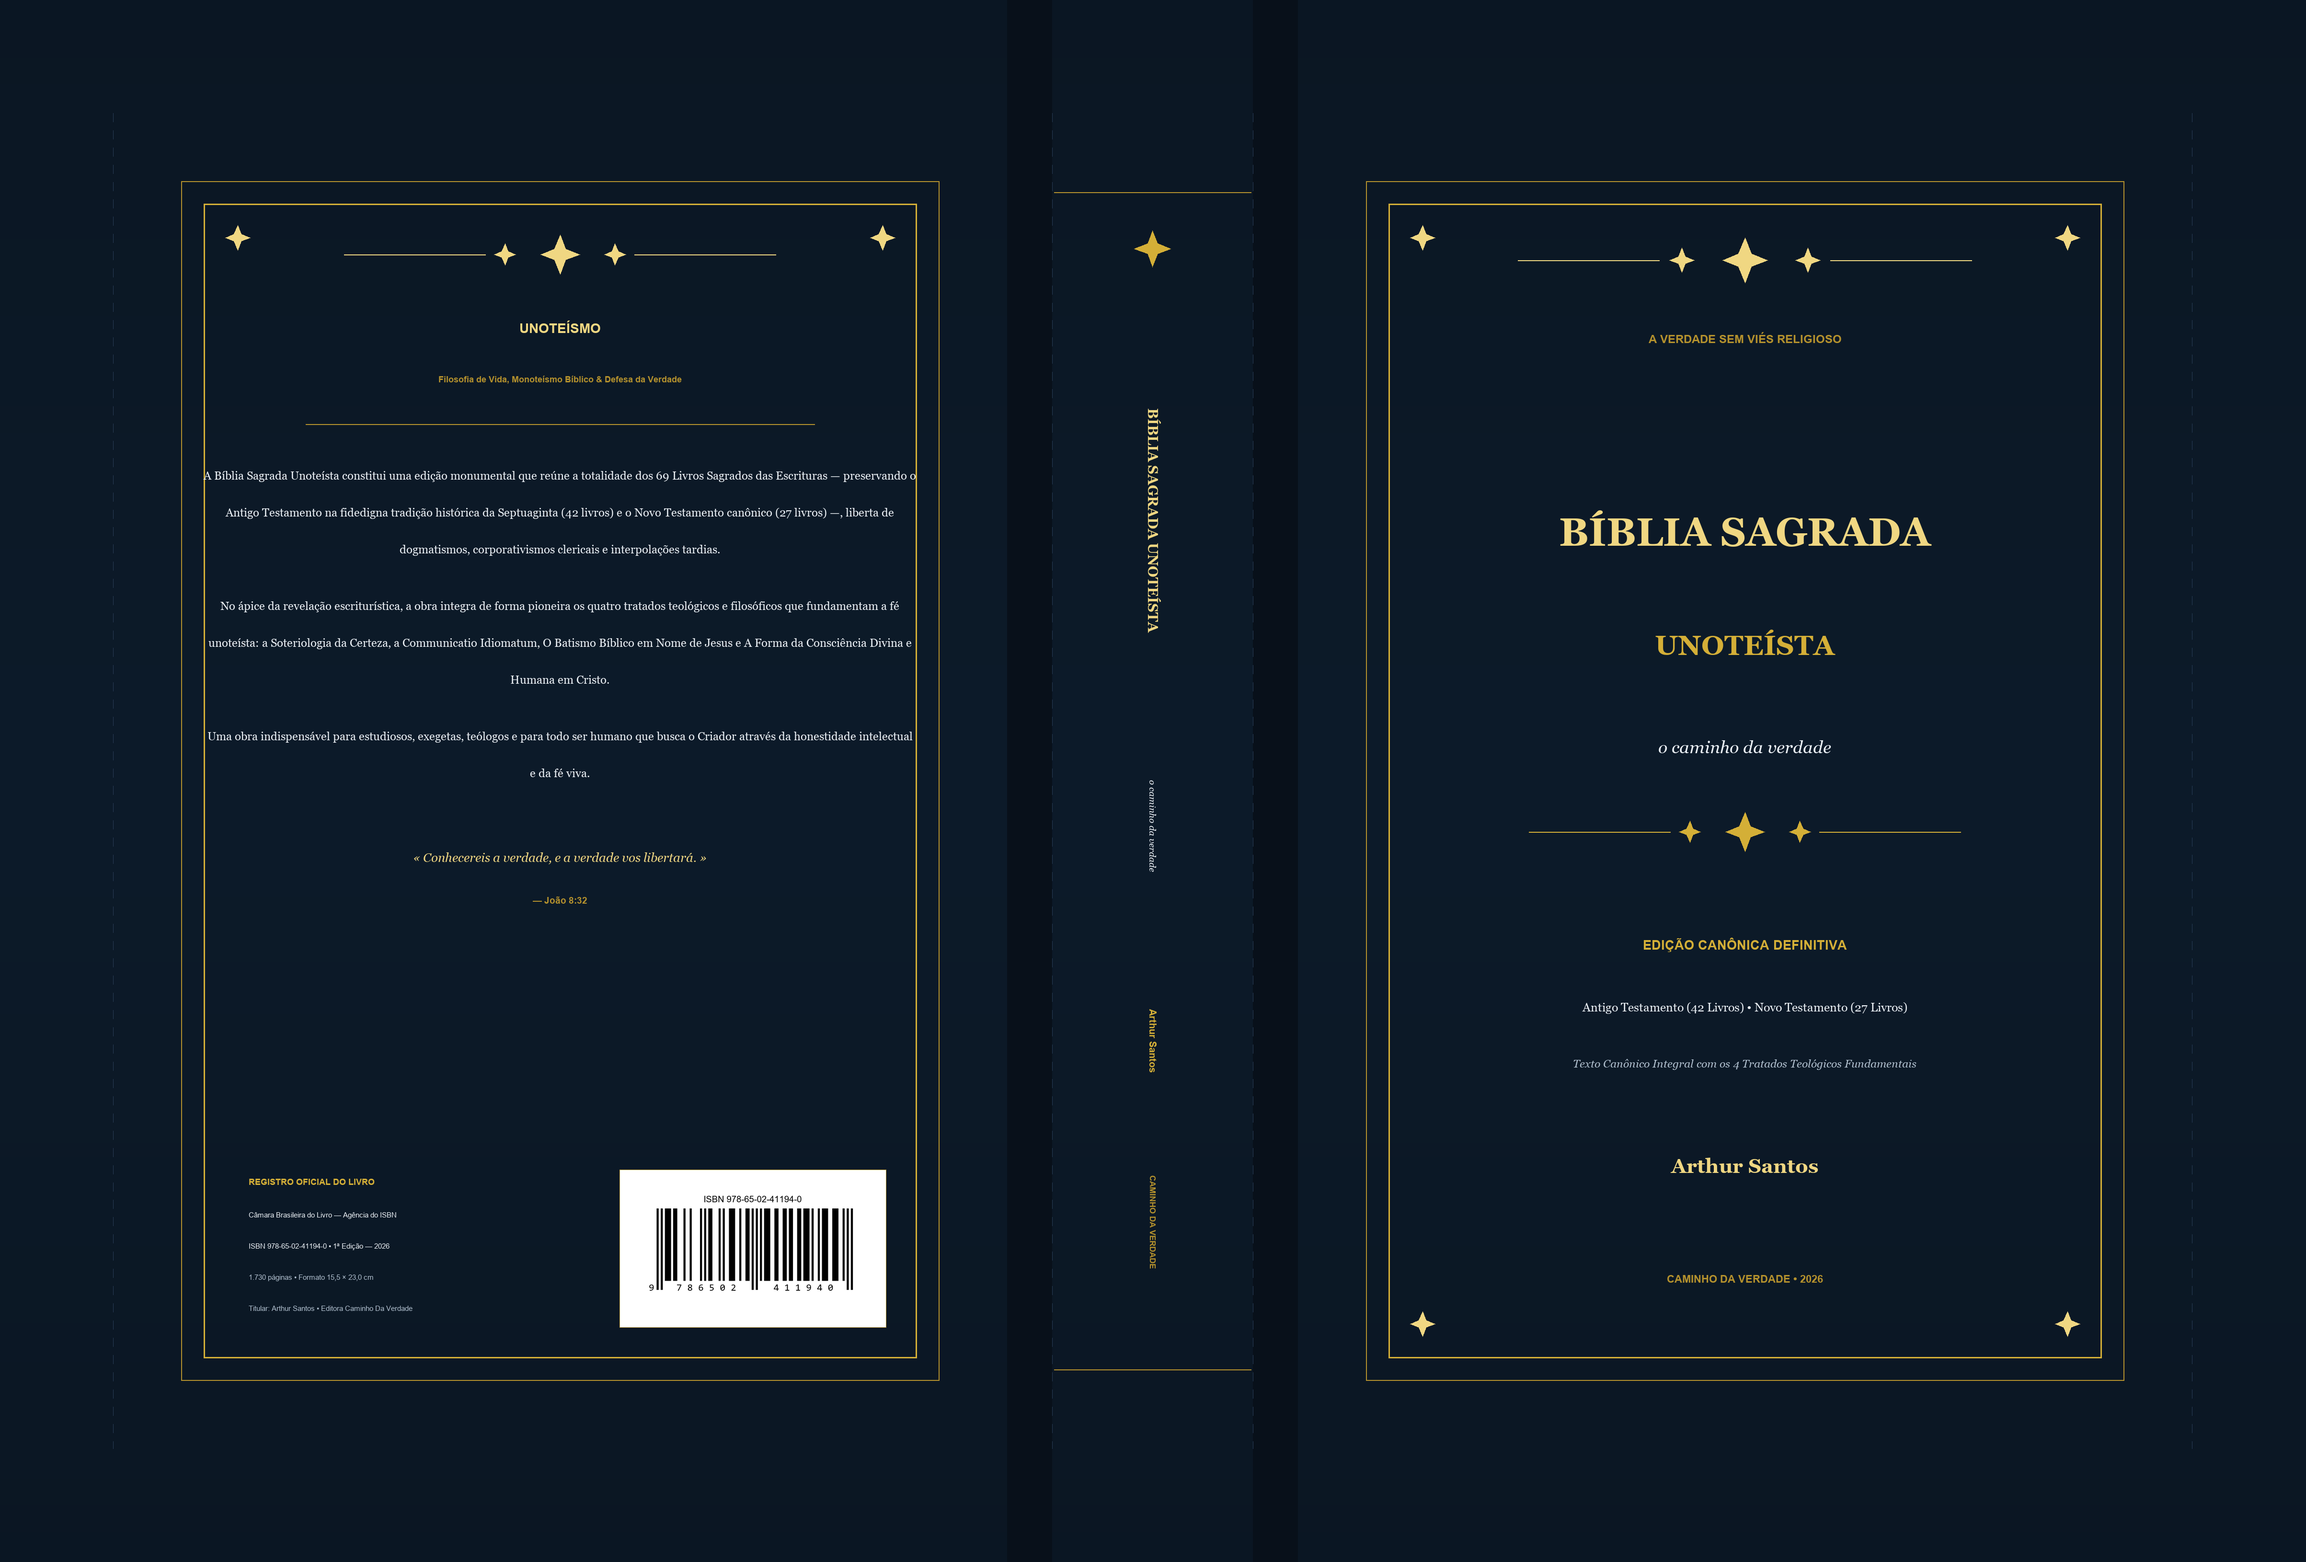
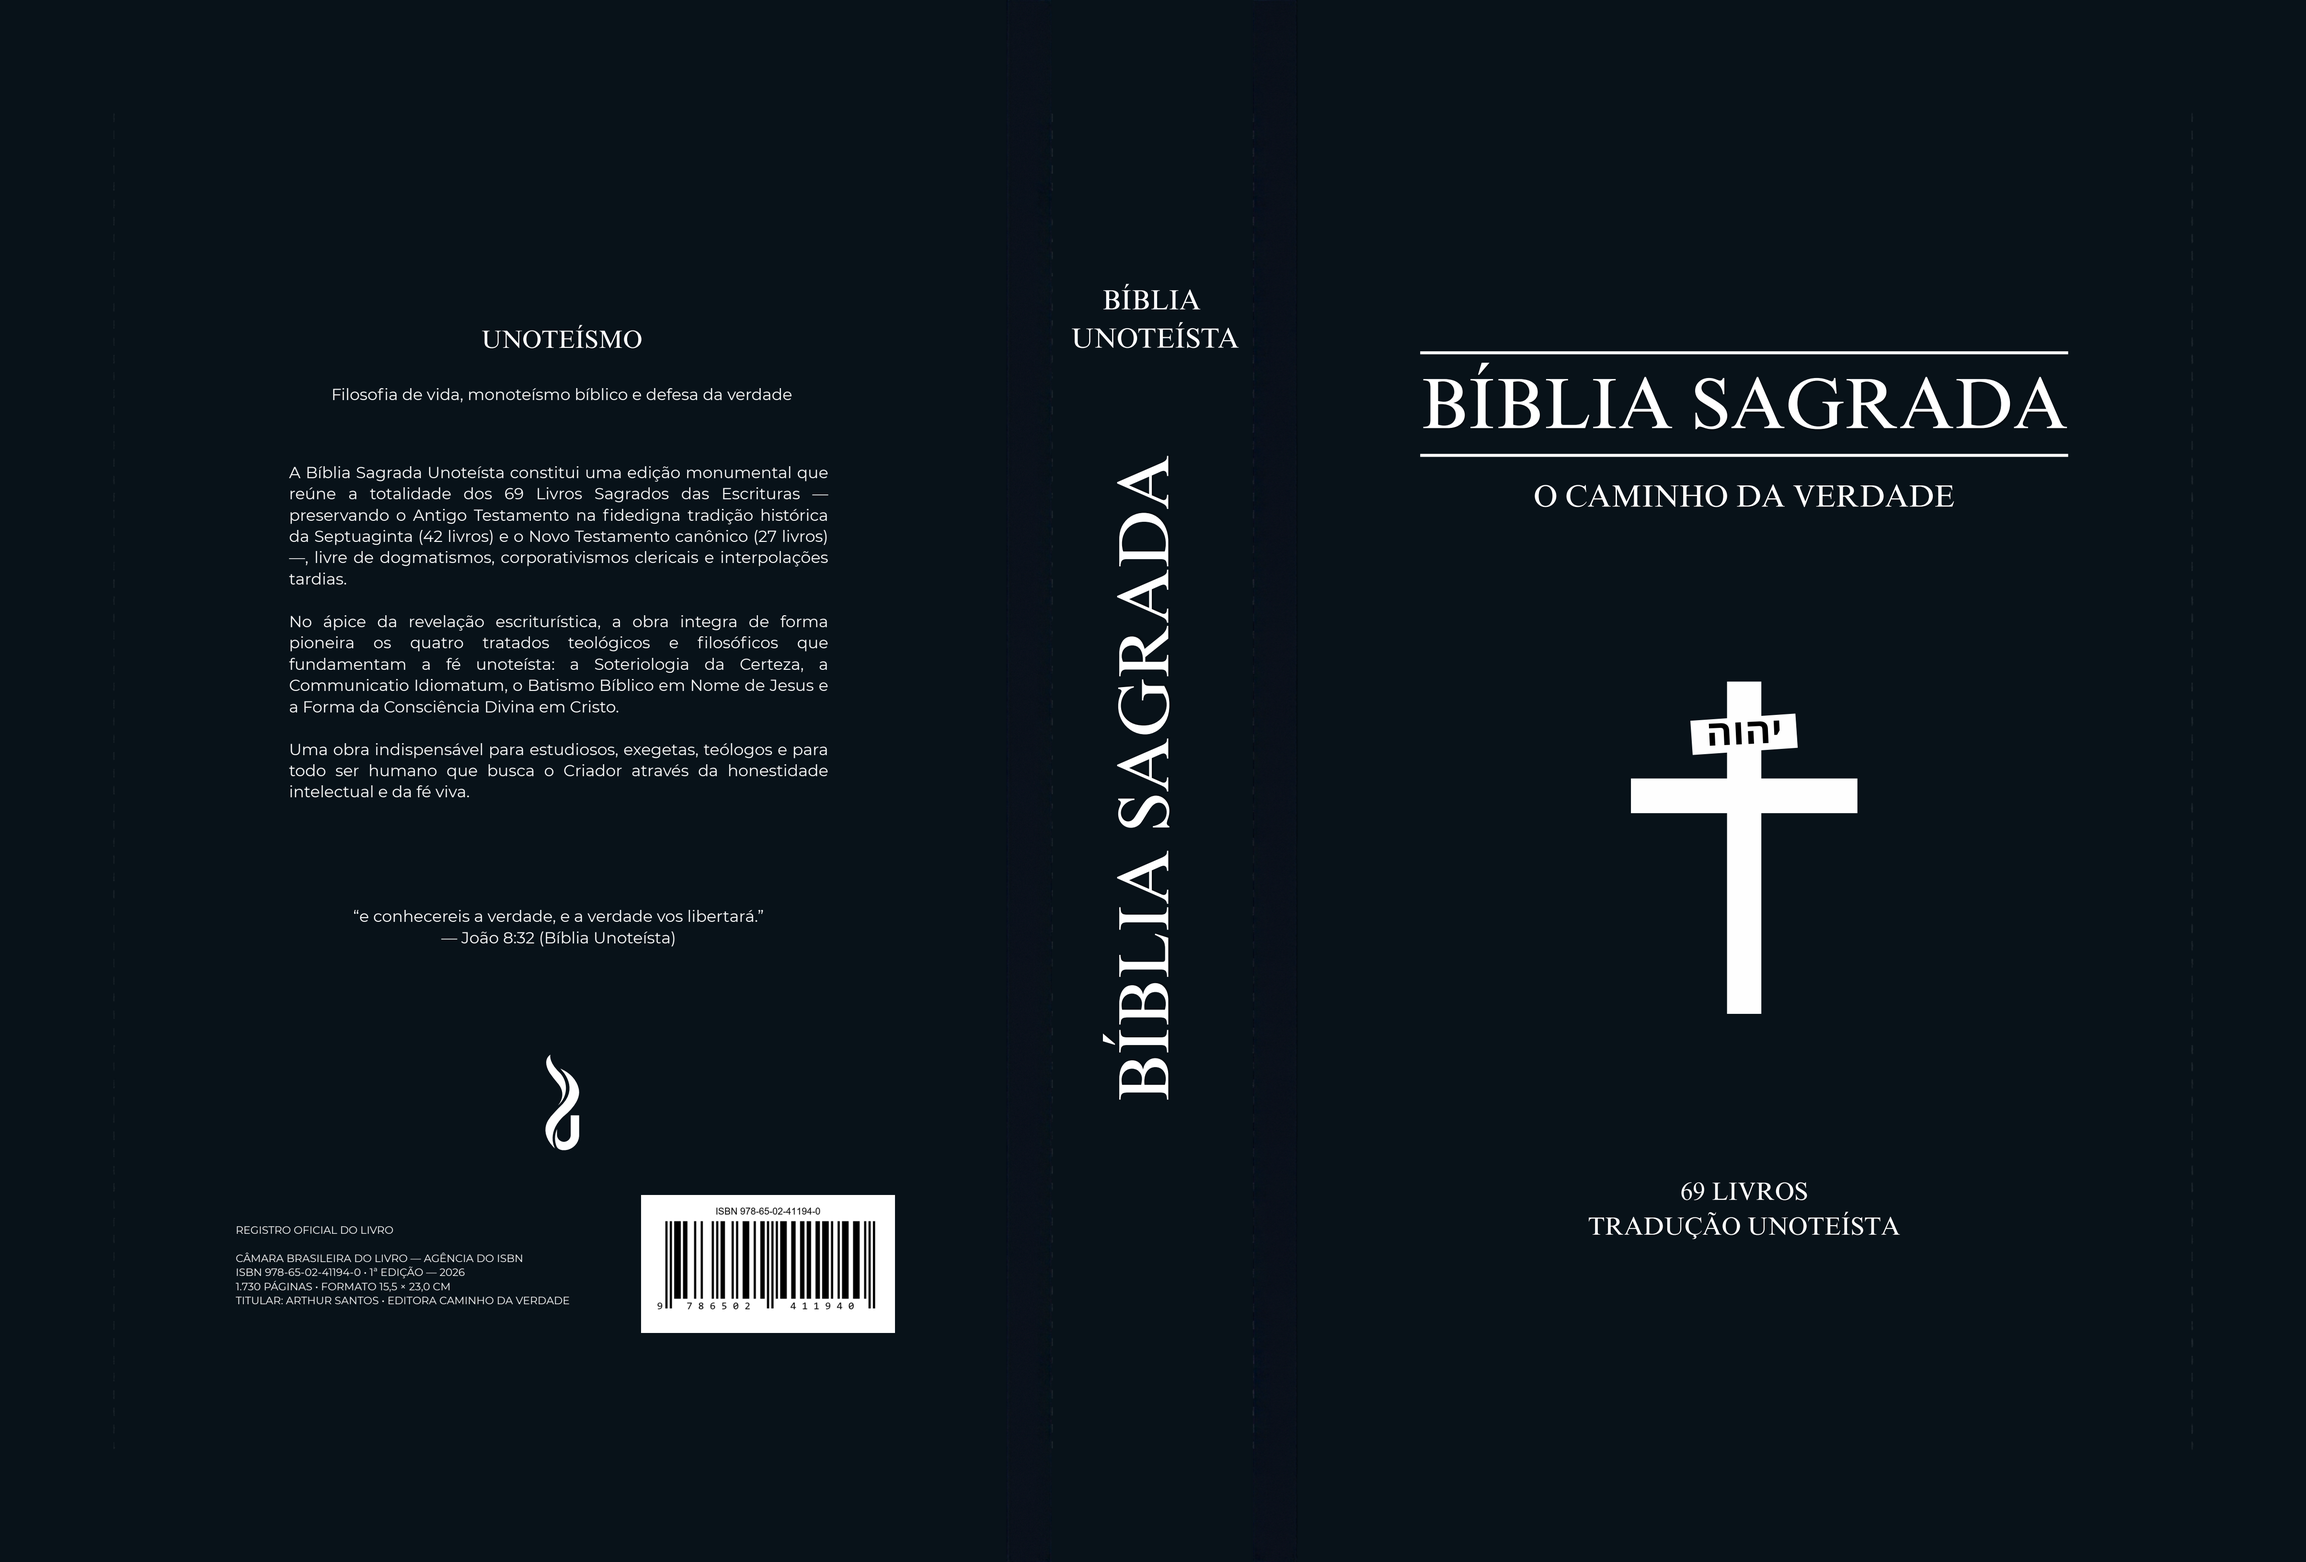
feat: integracao da nova capa oficial com cruz e tetragrama YHWH no site e repositorio

diff --git a/versao.css b/versao.css
@@ -1100,57 +1100,31 @@ header.topbar .menu .menu-btn-cta:hover,
 
 .edicao-book-mockup {
     width: 100%;
-    max-width: 240px;
-    background: linear-gradient(145deg, #1e293b, #0f172a);
-    color: #ffffff;
-    border-radius: 8px;
-    padding: 20px 16px;
-    box-shadow: 0 10px 25px rgba(0, 0, 0, 0.22);
-    border-left: 6px solid #c5a059;
+    max-width: 210px;
+    border-radius: 6px;
     margin-bottom: 20px;
-    text-align: center;
+    position: relative;
+    box-shadow: 
+        -4px 0 8px rgba(0, 0, 0, 0.25),
+        6px 12px 28px rgba(0, 0, 0, 0.35),
+        0 1px 3px rgba(0, 0, 0, 0.2);
+    transition: transform 0.3s cubic-bezier(0.16, 1, 0.3, 1), box-shadow 0.3s ease;
+    overflow: hidden;
+    background: #091016;
 }
 
-.edicao-mockup-tag {
-    font-size: 10px;
-    text-transform: uppercase;
-    letter-spacing: 0.12em;
-    color: #c5a059;
-    font-weight: 700;
+.edicao-book-mockup:hover {
+    transform: translateY(-5px) scale(1.02);
+    box-shadow: 
+        -6px 0 12px rgba(0, 0, 0, 0.3),
+        10px 18px 36px rgba(0, 0, 0, 0.45);
 }
 
-.edicao-mockup-title {
-    font-size: 16px;
-    font-weight: 700;
-    letter-spacing: 0.05em;
-    margin: 8px 0 4px 0;
-    color: #ffffff;
-}
-
-.edicao-mockup-sub {
-    font-size: 11px;
-    font-style: italic;
-    color: #94a3b8;
-    margin-bottom: 12px;
-}
-
-.edicao-mockup-divider {
-    width: 32px;
-    height: 2px;
-    background: #c5a059;
-    margin: 0 auto 12px auto;
-}
-
-.edicao-mockup-author {
-    font-size: 12px;
-    font-weight: 600;
-    color: #e2e8f0;
-}
-
-.edicao-mockup-pages {
-    font-size: 10.5px;
-    color: #94a3b8;
-    margin-top: 4px;
+.edicao-cover-img {
+    width: 100%;
+    height: auto;
+    display: block;
+    border-radius: 6px;
 }
 
 /* Código de Barras no Card */

diff --git a/index.html b/index.html
@@ -339,13 +339,8 @@
             <div class="edicao-impressa-grid">
                 <!-- Coluna 1: Apresentação e Download do PDF -->
                 <div class="edicao-card-download">
-                    <div class="edicao-book-mockup" aria-hidden="true">
-                        <div class="edicao-mockup-tag">Cânon Sagrado Unoteísta</div>
-                        <div class="edicao-mockup-title">BÍBLIA SAGRADA</div>
-                        <div class="edicao-mockup-sub">o caminho da verdade</div>
-                        <div class="edicao-mockup-divider"></div>
-                        <div class="edicao-mockup-author">Arthur Santos</div>
-                        <div class="edicao-mockup-pages">69 Livros • 1.730 Páginas • 1ª Edição 2026</div>
+                    <div class="edicao-book-mockup" aria-label="Capa Oficial da Bíblia Sagrada Unoteísta">
+                        <img src="/capa_frente_biblia_unoteista.webp" alt="Capa Oficial da Bíblia Sagrada Unoteísta — 69 Livros" class="edicao-cover-img" width="210" height="313" loading="lazy">
                     </div>
 
                     <div class="edicao-barcode-box">

diff --git a/biblia.html b/biblia.html
@@ -805,13 +805,8 @@
         <div class="edicao-impressa-grid">
             <!-- Coluna 1: Apresentação e Download do PDF -->
             <div class="edicao-card-download">
-                <div class="edicao-book-mockup" aria-hidden="true">
-                    <div class="edicao-mockup-tag">Cânon Sagrado Unoteísta</div>
-                    <div class="edicao-mockup-title">BÍBLIA SAGRADA</div>
-                    <div class="edicao-mockup-sub">o caminho da verdade</div>
-                    <div class="edicao-mockup-divider"></div>
-                    <div class="edicao-mockup-author">Arthur Santos</div>
-                    <div class="edicao-mockup-pages">69 Livros • 1.730 Páginas • 1ª Edição 2026</div>
+                <div class="edicao-book-mockup" aria-label="Capa Oficial da Bíblia Sagrada Unoteísta">
+                    <img src="/capa_frente_biblia_unoteista.webp" alt="Capa Oficial da Bíblia Sagrada Unoteísta — 69 Livros" class="edicao-cover-img" width="210" height="313" loading="lazy">
                 </div>
 
                 <div class="edicao-barcode-box">

diff --git a/make_public.py b/make_public.py
@@ -26,7 +26,8 @@ STYLES = ['versao.css', 'style.css', 'biblia.css', 'versao_biblia.css', 'teologi
 SCRIPTS = ['site.js', 'biblia.js', 'admin.js']
 IMAGES = ['logo_unoteismo.png', 'logo-64.png', 'logo-128.png', 'icon-192.png', 'icon-512.png', 'icon-512-maskable.png',
           'apple-touch-icon.png', 'favicon-48.png', 'og-image.png',
-          'codigo_de_barras_isbn_9786502411940.svg', 'codigo_de_barras_isbn_9786502411940.png']
+          'codigo_de_barras_isbn_9786502411940.svg', 'codigo_de_barras_isbn_9786502411940.png',
+          'capa_frente_biblia_unoteista.webp', 'capa_frente_biblia_unoteista.png']
 META = ['robots.txt', 'sitemap.xml', 'site.webmanifest', '_headers', '_redirects',
         'googlerYjJW0OeqtHHoSxkdebRaMzGb3eoxjKfHtVpzUdYm7E.html', 'google4bb1d4e1b48ee8e4.html']
 DATA = ['data/books.json', 'data/bible_search_index.json']
